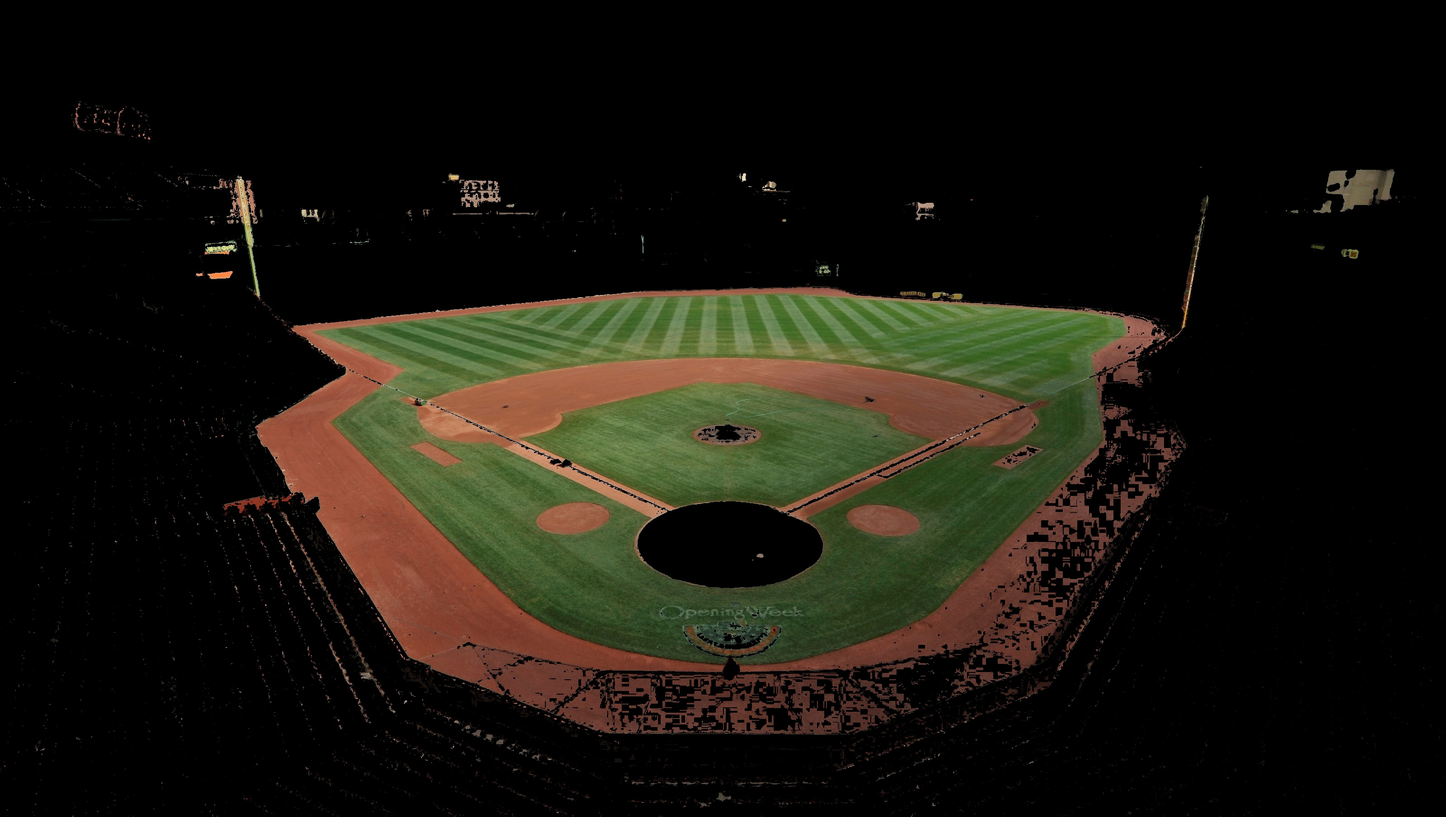
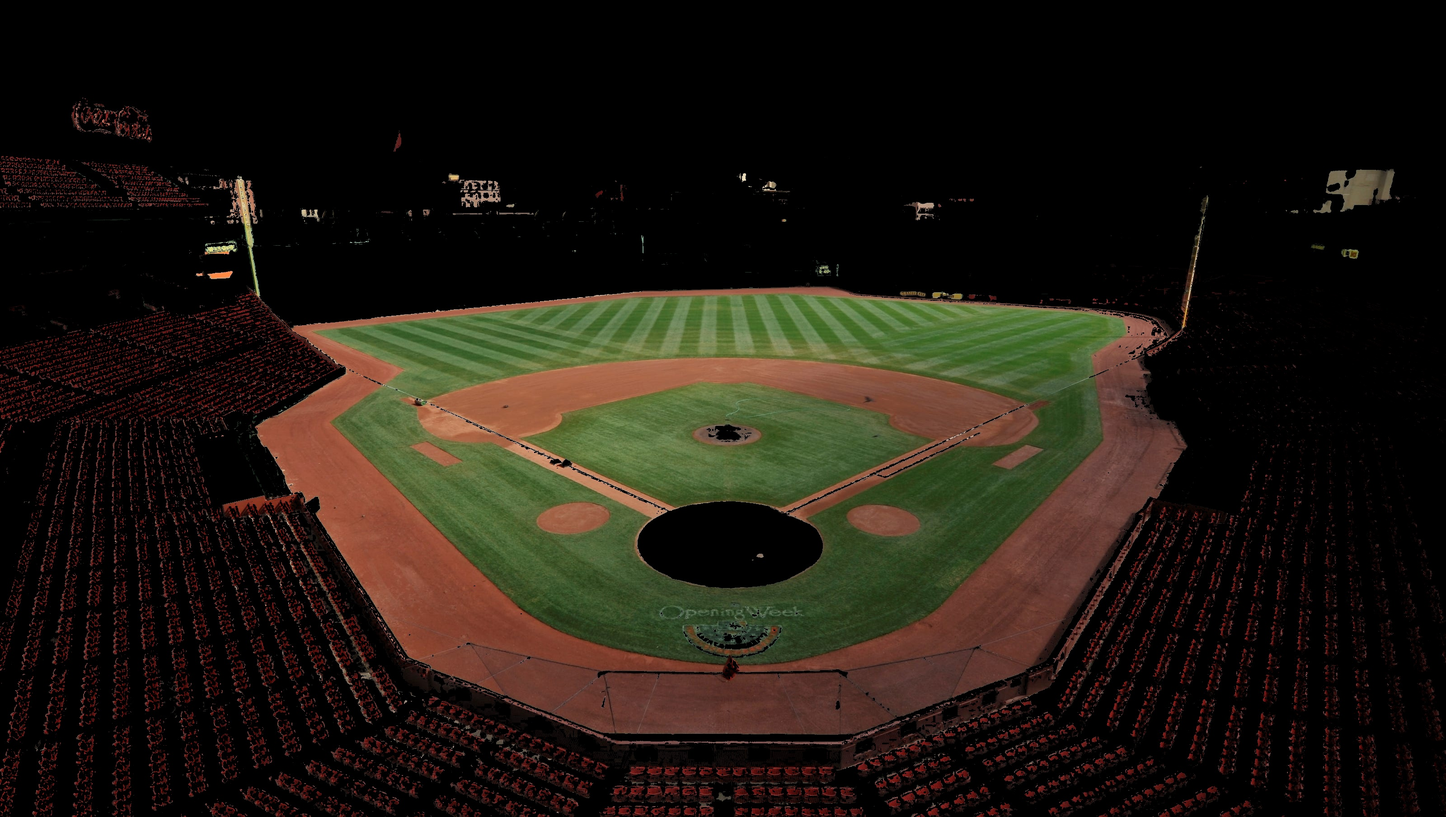
more threshold tweaking

diff --git a/TestPersonDetection/personDetectionTesting.py b/TestPersonDetection/personDetectionTesting.py
@@ -12,10 +12,10 @@ class PlayerFinder(object):
         self.lower_brown = numpy.array((5, 110, 25), dtype=numpy.uint8)
         self.upper_brown = numpy.array((30, 255, 255), dtype=numpy.uint8)
 
-        """#turns a dark purple color sometimes, so try this:
-        self.lower_shadow_brown = numpy.array((122, 45, 33), dtype=numpy.uint8)
-        self.upper_shadow_brown = numpy.array((238, 130, 100), dtype=numpy.uint8)
-
+        
+        self.lower_dark_brown = numpy.array((0, 75, 0), dtype=numpy.uint8)
+        self.upper_dark_brown = numpy.array((9, 255, 144), dtype=numpy.uint8)
+        """
         self.lower_field = numpy.array((1, 45, 14), dtype=numpy.uint8)
         self.upper_field = numpy.array((72, 255, 242), dtype=numpy.uint8)"""
 
@@ -50,13 +50,13 @@ class PlayerFinder(object):
         #Define a mask ranging from lower to uppper
         mask_green = cv2.inRange(hsv, self.lower_green, self.upper_green)
         mask_brown = cv2.inRange(hsv, self.lower_brown, self.upper_brown)
+        mask_dark_brown = cv2.inRange(hsv, self.lower_dark_brown, self.upper_dark_brown)
         #mask_shadow_brown = cv2.inRange(hsv, self.lower_shadow_brown, self.upper_brown)
         #mask_field = cv2.inRange(hsv, self.lower_field, self.upper_field)
         #Do masking
-        #mask = cv2.bitwise_or(mask_green, mask_brown)
 
-        mask = cv2.bitwise_or(mask_green, mask_brown)#cv2.bitwise_and(image, image, mask=mask_green)
-        #mask = cv2.bitwise_or(mask, mask_shadow_brown)
+        mask = cv2.bitwise_or(mask_green, mask_brown)
+        mask = cv2.bitwise_or(mask, mask_dark_brown)
         
         res = cv2.bitwise_and(image,image, mask=mask)
 
@@ -65,12 +65,7 @@ class PlayerFinder(object):
         #Defining a kernel to do morphological operation in threshold image to 
         #get better output.
 
-        #dilate = cv2.dilate(res, numpy.ones((2,2), numpy.uint8), iterations = 1)
-        erosion = cv2.erode(res, numpy.ones((10,10), numpy.uint8), iterations = 2)
-
-        #kernel = numpy.ones((13,13),numpy.uint8)
-        #hresh = cv2.threshold(res_gray, 127, 255, cv2.THRESH_BINARY_INV |  cv2.THRESH_OTSU)[1]
-        #thresh = cv2.morphologyEx(thresh, cv2.MORPH_CLOSE, kernel)
+        erosion = cv2.erode(mask, numpy.ones((7,7), numpy.uint8), iterations = 1)
 
         return res
         """
